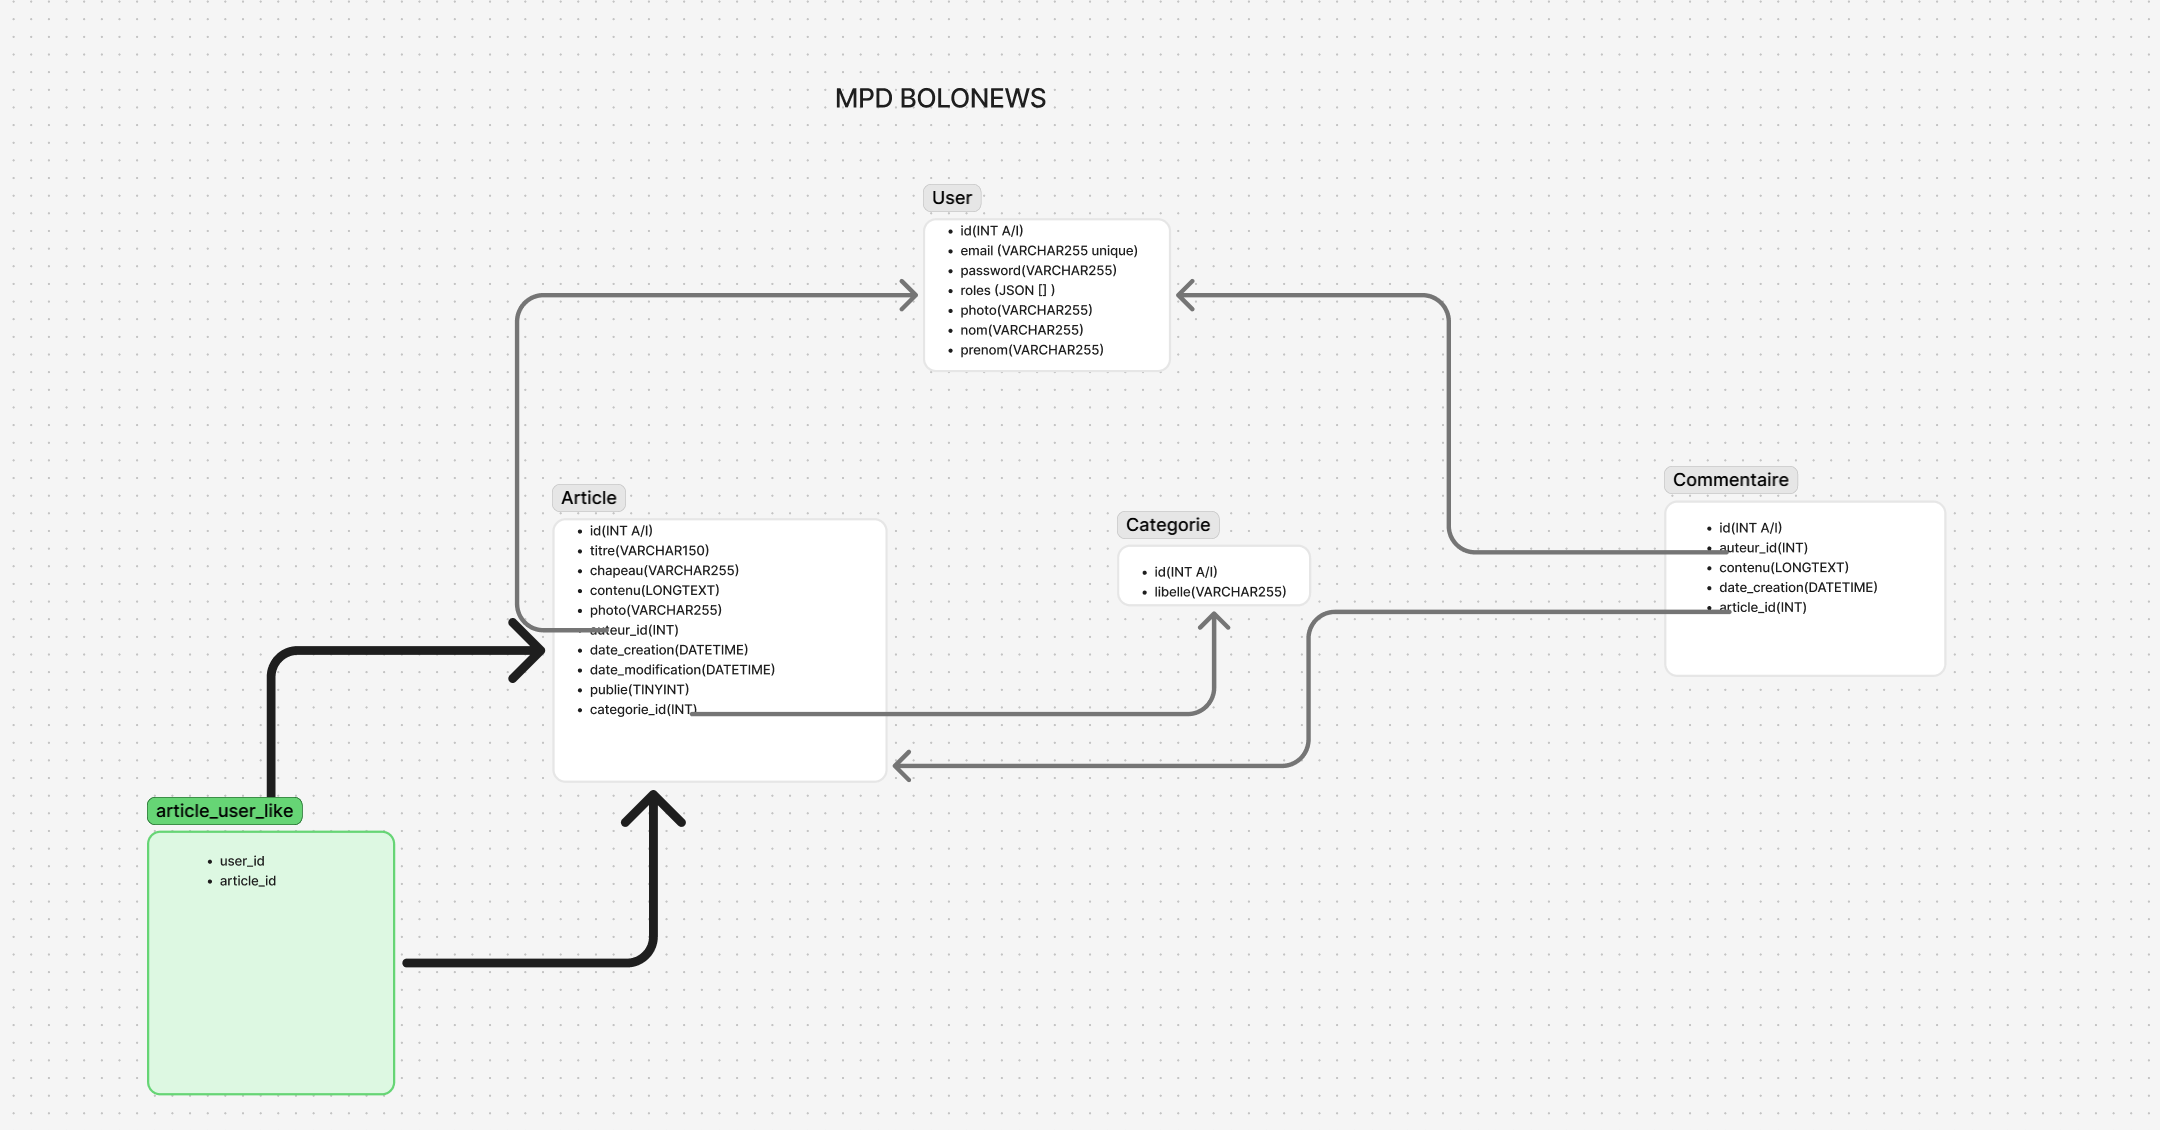
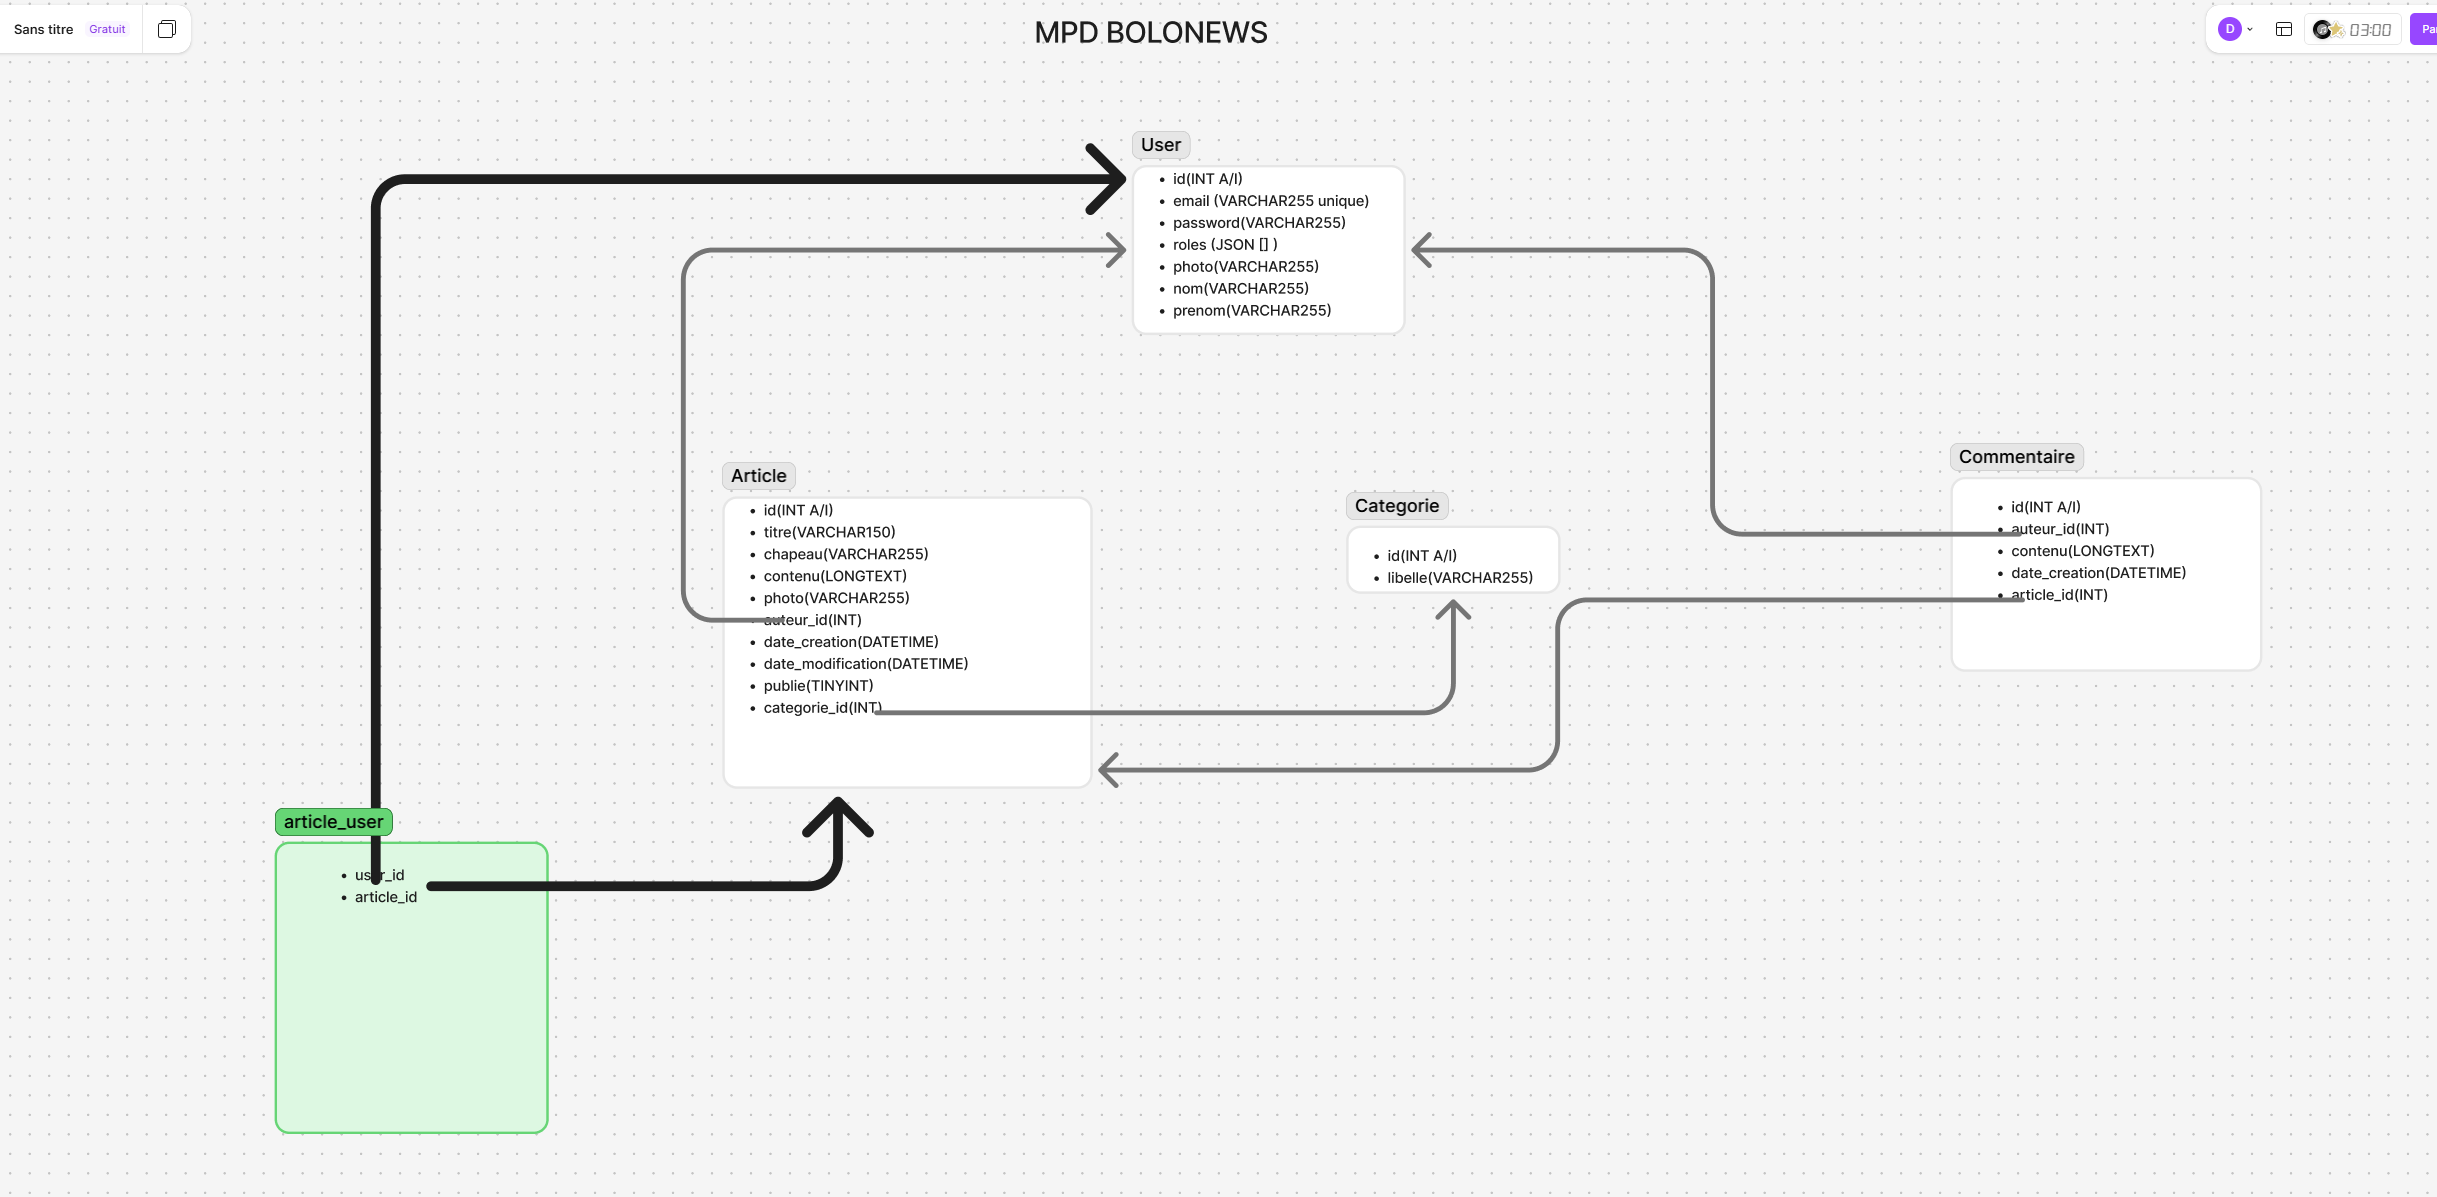
Création de la table relation article_user pour le nombre de like, migrations faites. Création de la methode pour ajouter ou enlever un like(relation)

diff --git a/migrations/Version20260808151417.php b/migrations/Version20260808151417.php
@@ -1,0 +1,35 @@
+<?php
+
+declare(strict_types=1);
+
+namespace DoctrineMigrations;
+
+use Doctrine\DBAL\Schema\Schema;
+use Doctrine\Migrations\AbstractMigration;
+
+/**
+ * Auto-generated Migration: Please modify to your needs!
+ */
+final class Version20260808151417 extends AbstractMigration
+{
+    public function getDescription(): string
+    {
+        return '';
+    }
+
+    public function up(Schema $schema): void
+    {
+        // this up() migration is auto-generated, please modify it to your needs
+        $this->addSql('CREATE TABLE article_user (article_id INT NOT NULL, user_id INT NOT NULL, INDEX IDX_3DD151487294869C (article_id), INDEX IDX_3DD15148A76ED395 (user_id), PRIMARY KEY (article_id, user_id)) DEFAULT CHARACTER SET utf8mb4');
+        $this->addSql('ALTER TABLE article_user ADD CONSTRAINT FK_3DD151487294869C FOREIGN KEY (article_id) REFERENCES article (id) ON DELETE CASCADE');
+        $this->addSql('ALTER TABLE article_user ADD CONSTRAINT FK_3DD15148A76ED395 FOREIGN KEY (user_id) REFERENCES `user` (id) ON DELETE CASCADE');
+    }
+
+    public function down(Schema $schema): void
+    {
+        // this down() migration is auto-generated, please modify it to your needs
+        $this->addSql('ALTER TABLE article_user DROP FOREIGN KEY FK_3DD151487294869C');
+        $this->addSql('ALTER TABLE article_user DROP FOREIGN KEY FK_3DD15148A76ED395');
+        $this->addSql('DROP TABLE article_user');
+    }
+}

diff --git a/src/Controller/ArticleController.php b/src/Controller/ArticleController.php
@@ -218,4 +218,27 @@ final class ArticleController extends AbstractController
         ]);
     }
     
+    #[Route('/{id}/like', name: 'app_like')]
+    public function like(EntityManagerInterface $em, Request $request, Article $article): Response
+    {
+        //Je récupere l'user connecté
+        $user = $this->getUser();
+        //Je récupère la liste des user qui ont liké cet article
+        $likes = $article->getLikeBy();
+        //Si l'user est déjà dedans, il est enlevé de la relation (dislike)
+        if($likes->contains($user)){
+            //via la methode faite par Symfo et la relation
+            $article->removeLikeBy($user);
+        }else{
+            //Sinon je l'ajoute dans la table associative (like)
+            //via la methode faite par Symfo et la relation
+            $article->addLikeBy($user);
+        };
+        //J'enregistre la modification de relation
+        $em->flush();
+        
+        //Je redirige vers la page où le like a été cliqué(via l'entete http)
+        return $this->redirect($request->headers->get('referer'));
+    }
+
 }

diff --git a/src/Entity/Article.php b/src/Entity/Article.php
@@ -79,9 +79,16 @@ class Article
     #[ORM\OneToMany(targetEntity: Commentaire::class, mappedBy: 'article')]
     private Collection $commentaires;
 
+    /**
+     * @var Collection<int, User>
+     */
+    #[ORM\ManyToMany(targetEntity: User::class)]
+    private Collection $likeBy;
+
     public function __construct()
     {
         $this->commentaires = new ArrayCollection();
+        $this->likeBy = new ArrayCollection();
     }
 
     public function getId(): ?int
@@ -223,6 +230,30 @@ class Article
                 $commentaire->setArticle(null);
             }
         }
+
+        return $this;
+    }
+
+    /**
+     * @return Collection<int, User>
+     */
+    public function getLikeBy(): Collection
+    {
+        return $this->likeBy;
+    }
+
+    public function addLikeBy(User $likeBy): static
+    {
+        if (!$this->likeBy->contains($likeBy)) {
+            $this->likeBy->add($likeBy);
+        }
+
+        return $this;
+    }
+
+    public function removeLikeBy(User $likeBy): static
+    {
+        $this->likeBy->removeElement($likeBy);
 
         return $this;
     }
